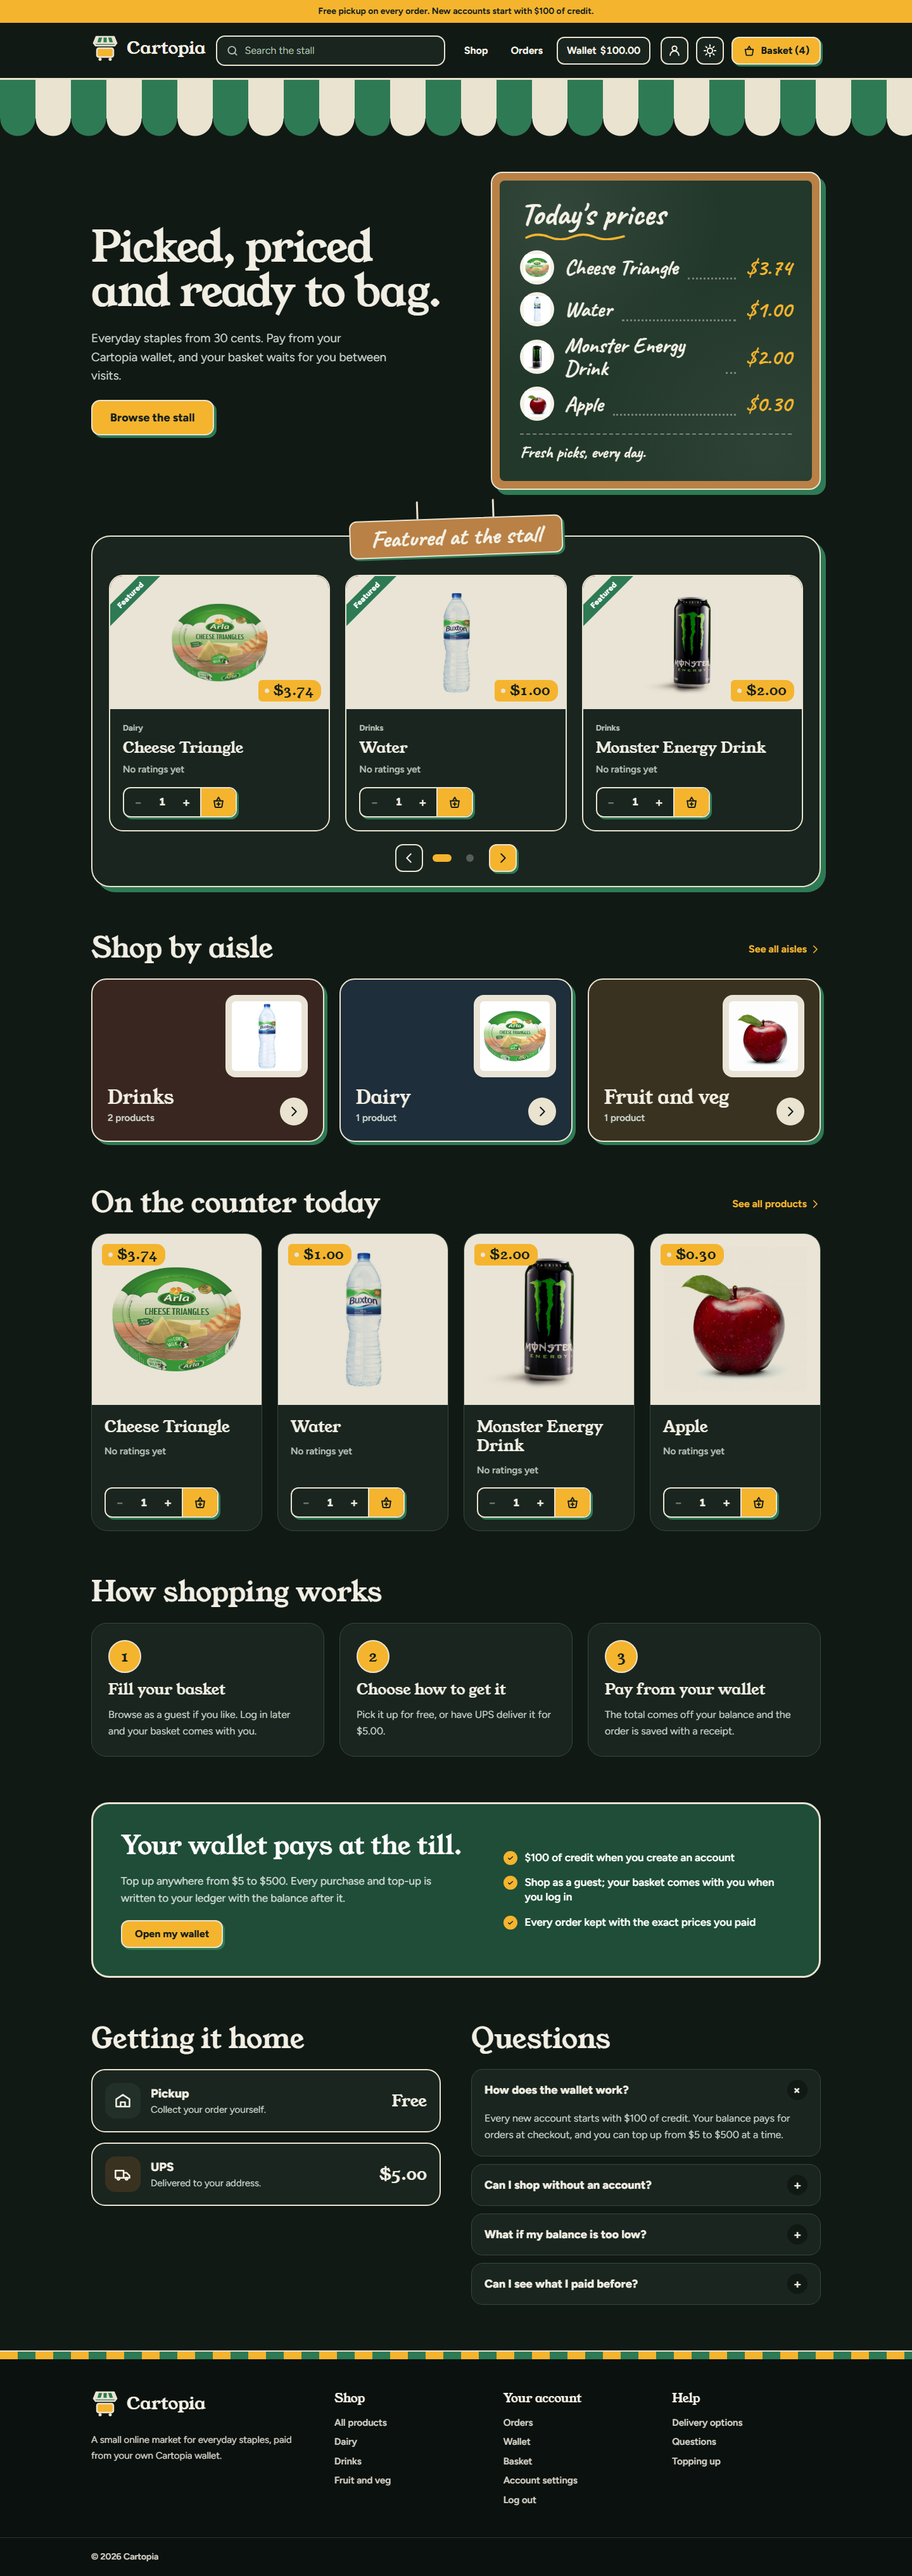
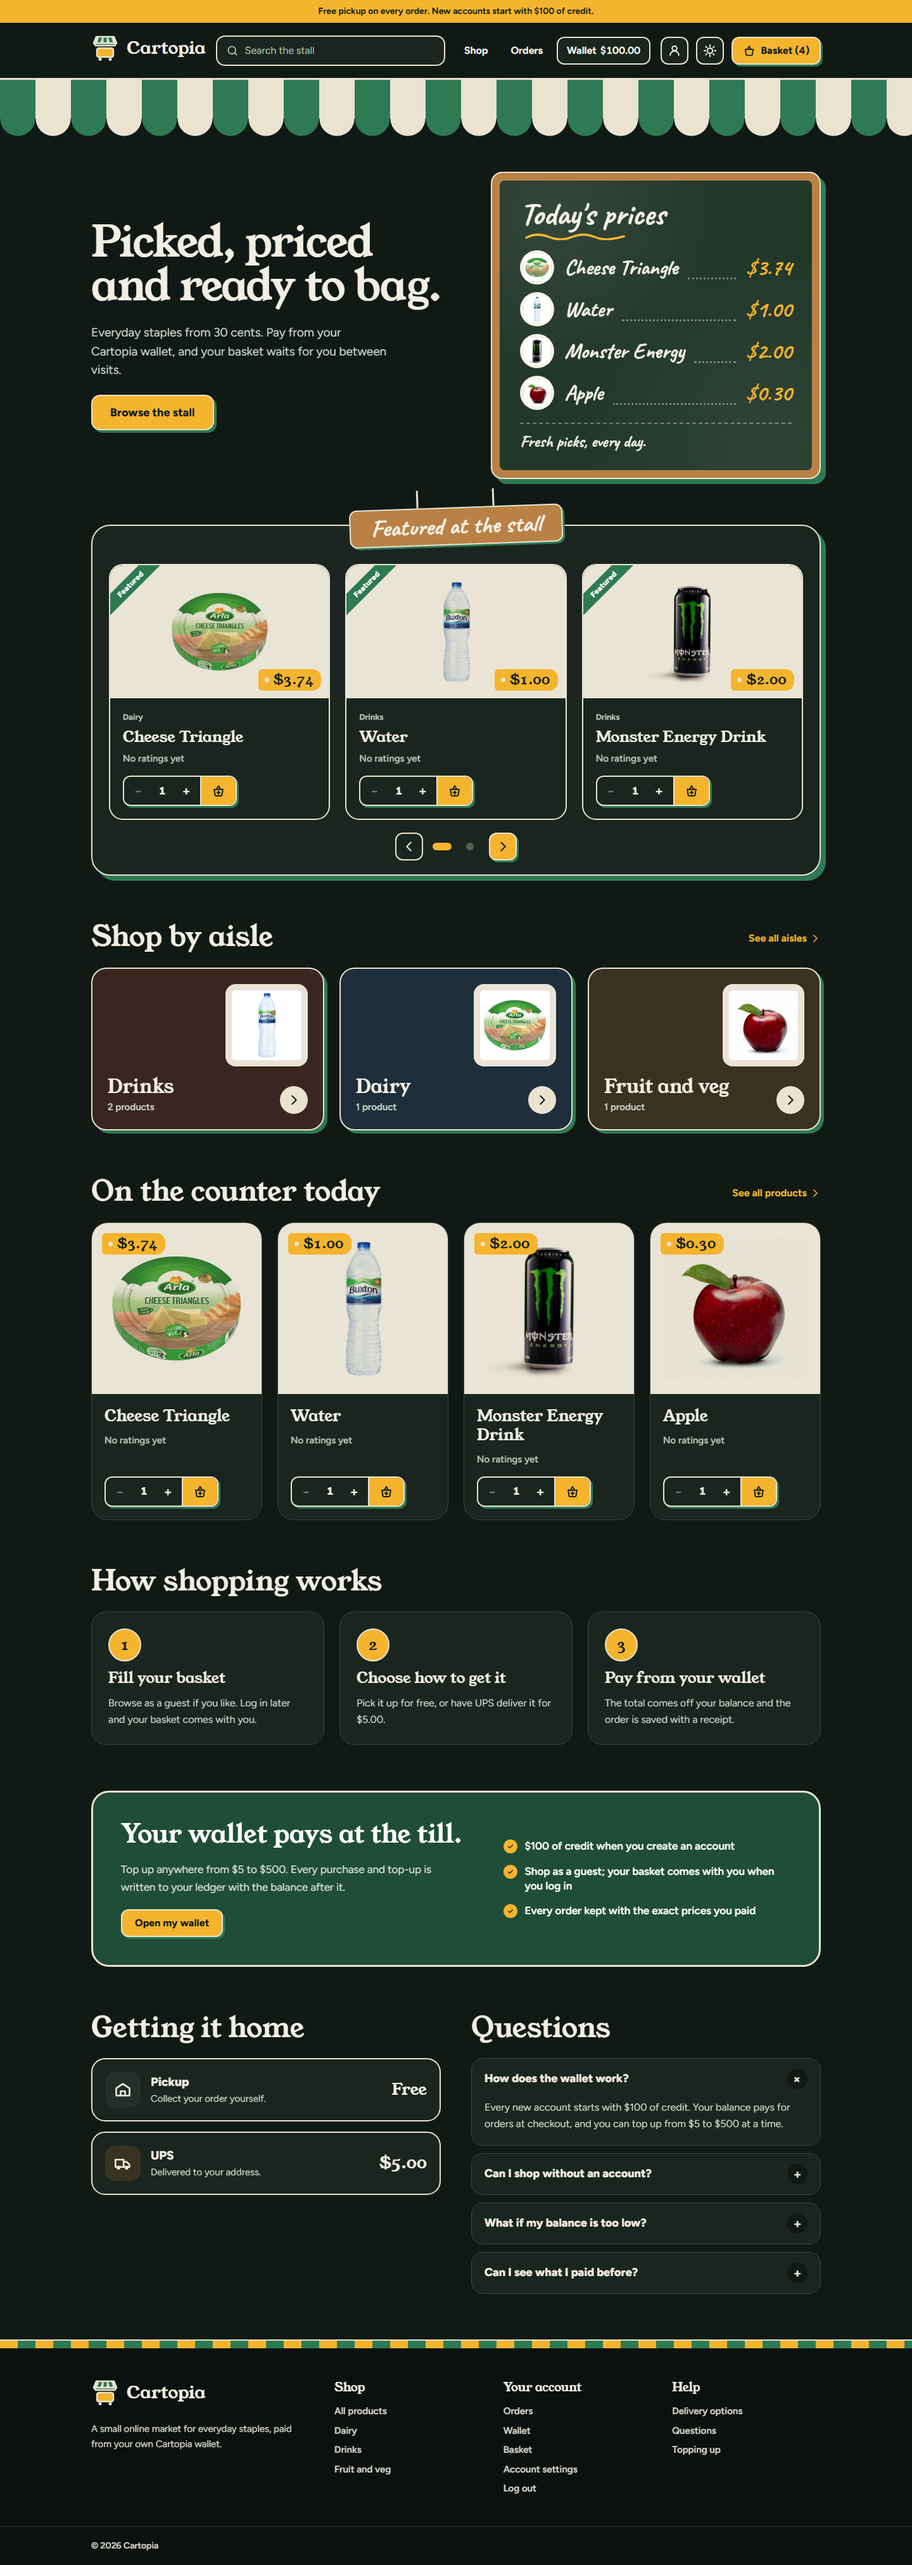
Show a shorter name on the home page's price board
Products get an optional short_name, used only by the "Today's prices"
chalkboard (falling back to the full name). Monster Energy Drink is
seeded with "Monster Energy", so its row fits on one line on desktop
like the others; its name everywhere else is unchanged. The README home
screenshots are retaken to match.

diff --git a/resources/js/pages/WelcomePage.vue b/resources/js/pages/WelcomePage.vue
@@ -117,7 +117,7 @@ const walletPoints = [
                             <span
                                 class="min-w-0 text-[27px] leading-[1.05] wrap-anywhere lg:text-[34px]"
                             >
-                                {{ product.name }}
+                                {{ product.short_name ?? product.name }}
                             </span>
                             <span
                                 aria-hidden="true"

diff --git a/resources/js/types/catalog.ts b/resources/js/types/catalog.ts
@@ -1,6 +1,8 @@
 export type Product = {
     id: number;
     name: string;
+    /** A shorter name for the home page's price board; null to use `name`. */
+    short_name: string | null;
     slug: string;
     price: string;
     image_url: string | null;

diff --git a/database/seeders/DatabaseSeeder.php b/database/seeders/DatabaseSeeder.php
@@ -18,7 +18,7 @@ class DatabaseSeeder extends Seeder
     /**
      * The legacy Cartopia catalog.
      *
-     * @var list<array{name: string, slug: string, aisle: string, price: int, sku: string, image: string, description: string}>
+     * @var list<array{name: string, short_name?: string, slug: string, aisle: string, price: int, sku: string, image: string, description: string}>
      */
     private const array PRODUCTS = [
         [
@@ -32,6 +32,7 @@ class DatabaseSeeder extends Seeder
         ],
         [
             'name' => 'Monster Energy Drink',
+            'short_name' => 'Monster Energy',
             'slug' => 'monster-energy-drink',
             'aisle' => 'drinks',
             'price' => 200,
@@ -94,6 +95,7 @@ class DatabaseSeeder extends Seeder
                 'category_id' => $aisles[$data['aisle']]->id,
                 'is_featured' => true,
                 'name' => $data['name'],
+                'short_name' => $data['short_name'] ?? null,
                 'slug' => $data['slug'],
                 'description' => $data['description'],
                 'price' => Money::fromCents($data['price']),

diff --git a/tests/Feature/Domain/DatabaseSeederTest.php b/tests/Feature/Domain/DatabaseSeederTest.php
@@ -41,6 +41,8 @@ it('seeds the legacy catalog, shipping, demo and admin users', function () {
     ])->and(Product::query()->where('is_featured', false)->count())->toBe(0);
 
     expect(Product::query()->where('slug', 'water')->value('description'))->toContain("St Ann's Spring")
+        ->and(Product::query()->where('slug', 'monster-energy-drink')->value('short_name'))->toBe('Monster Energy')
+        ->and(Product::query()->where('slug', 'apple')->value('short_name'))->toBeNull()
         ->and(Product::query()->where('slug', 'monster-energy-drink')->value('description'))->toContain('160 mg of caffeine')
         ->and(Product::query()->where('slug', 'apple')->value('description'))->toContain('"health is wealth."')
         ->and(ShippingMethod::query()->count())->toBe(2);

diff --git a/app/Models/Product.php b/app/Models/Product.php
@@ -20,6 +20,7 @@ use Illuminate\Support\Carbon;
  * @property int|null $category_id
  * @property bool $is_featured
  * @property string $name
+ * @property string|null $short_name A shorter name for tight spots, such as the home page's price board
  * @property string $slug
  * @property string $description
  * @property Money $price
@@ -27,7 +28,7 @@ use Illuminate\Support\Carbon;
  * @property Carbon|null $created_at
  * @property Carbon|null $updated_at
  */
-#[Fillable(['category_id', 'is_featured', 'name', 'slug', 'description', 'price', 'sku'])]
+#[Fillable(['category_id', 'is_featured', 'name', 'short_name', 'slug', 'description', 'price', 'sku'])]
 class Product extends Model
 {
     /** @use HasFactory<ProductFactory> */

diff --git a/database/migrations/2026_11_02_000004_add_short_name_to_products_table.php b/database/migrations/2026_11_02_000004_add_short_name_to_products_table.php
@@ -1,0 +1,22 @@
+<?php
+
+use Illuminate\Database\Migrations\Migration;
+use Illuminate\Database\Schema\Blueprint;
+use Illuminate\Support\Facades\Schema;
+
+return new class extends Migration
+{
+    public function up(): void
+    {
+        Schema::table('products', function (Blueprint $table) {
+            $table->string('short_name')->nullable()->after('name');
+        });
+    }
+
+    public function down(): void
+    {
+        Schema::table('products', function (Blueprint $table) {
+            $table->dropColumn('short_name');
+        });
+    }
+};

diff --git a/tests/Feature/Http/CatalogTest.php b/tests/Feature/Http/CatalogTest.php
@@ -25,6 +25,7 @@ it('shows the four newest products on the welcome page', function () {
             ->has('counter', 4)
             ->where('counter.0.id', $newest->id)
             ->where('counter.0.slug', $newest->slug)
+            ->where('counter.0.short_name', null)
             ->where('counter.0.price', $newest->price->format())
             ->where('counter.0.image_url', Storage::disk('public')->url($newest->images()->first()->path))
             ->where('counter.3.id', $products[1]->id)

diff --git a/app/Http/Resources/ProductResource.php b/app/Http/Resources/ProductResource.php
@@ -24,6 +24,7 @@ class ProductResource extends JsonResource
         return [
             'id' => $this->id,
             'name' => $this->name,
+            'short_name' => $this->short_name,
             'slug' => $this->slug,
             'price' => $this->price->format(),
             'image_url' => $image === null ? null : Storage::disk('public')->url($image->path),
